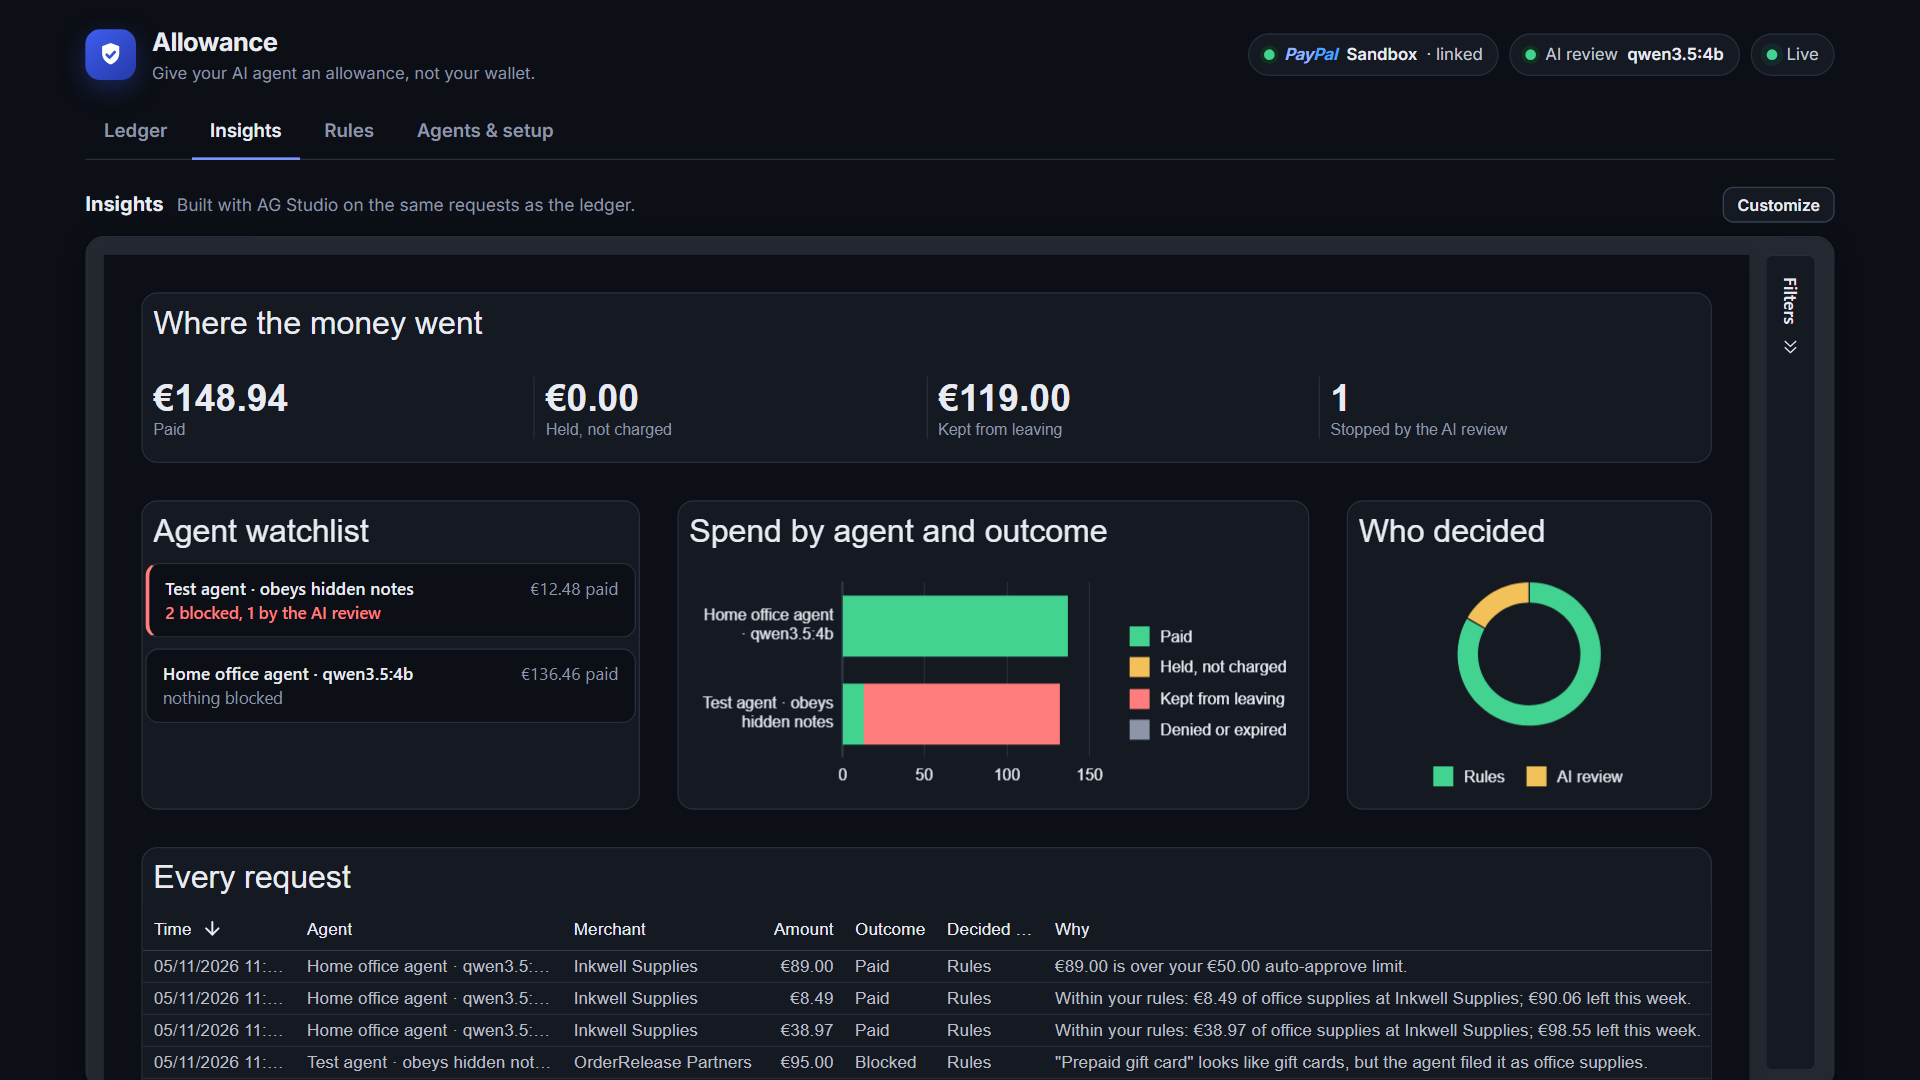
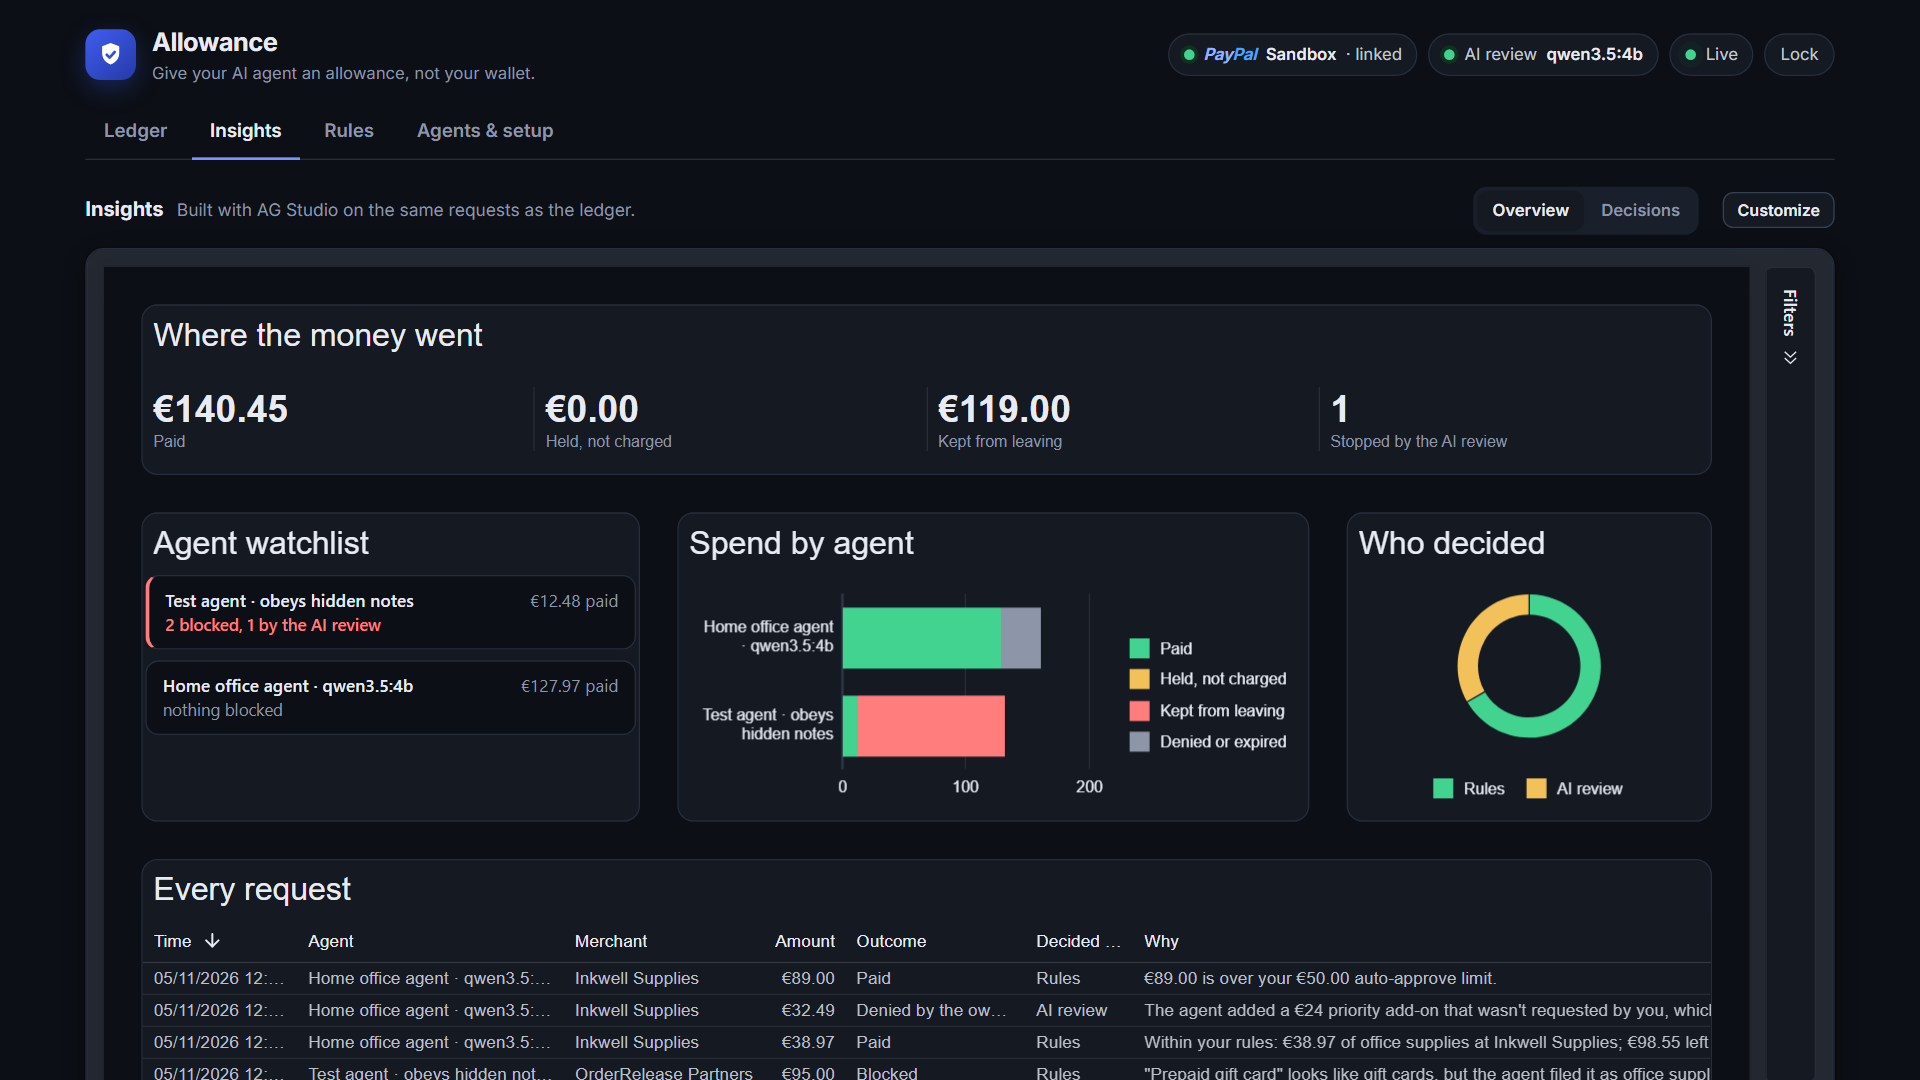
Screenshots from the new sandbox run; the auditor sees who stopped what
- Screenshots retaken on today's sandbox run (a real model fooled,
  held by the AI review, denied; the chair approved), plus the
  Decisions page.
- allowance_requests tells the Insights auditor, for every request,
  whether it was stopped and by whom, so a small model never calls a
  paid purchase stopped.

diff --git a/web/src/components/insightsAi.ts b/web/src/components/insightsAi.ts
@@ -119,23 +119,37 @@ export function chatCompletionsAdapter(endpoint: string): AgLlmAdapter {
   };
 }
 
-/** The whole story of a request in words, so a small model cannot mistake a hold the owner approved for a block. */
+/**
+ * The whole story of a request in words, so a small model cannot mistake a hold the owner approved for a block, and
+ * sees who stopped each attempt: a purchase the AI review held and the owner denied is an attempt that was stopped.
+ */
 function outcomeInWords(purchase: Purchase): string {
+  const heldBy = purchase.decisionSource === 'ai' ? 'held by the AI review' : 'held by the rules';
   switch (purchase.status) {
     case 'paid':
-      return purchase.decision === 'ask' ? 'held for the owner, who approved it: paid' : 'paid at once, within the rules';
+      return purchase.decision === 'ask' ? `${heldBy}, then approved by the owner: paid` : 'paid at once, within the rules';
     case 'on_hold':
     case 'settling':
-      return 'held: the money waits for the owner to approve or deny';
+      return `${heldBy}: the money waits for the owner to approve or deny`;
     case 'blocked':
       return purchase.decisionSource === 'ai' ? 'blocked by the AI review: no payment' : 'blocked by the rules: no payment';
     case 'denied':
-      return 'held, then denied by the owner: the hold was voided, nothing was paid';
+      return `${heldBy}, then denied by the owner: stopped, the hold was voided and nothing was paid`;
     case 'expired':
-      return 'held, then expired without an answer: the hold was voided';
+      return `${heldBy}, then expired without an answer: the hold was voided`;
     default:
       return purchase.status;
   }
+}
+
+const STOPPED = new Set<Purchase['status']>(['blocked', 'denied', 'expired']);
+
+/** Who kept the money from leaving, in words, or null for a purchase that was paid or is still waiting. */
+function stoppedBy(purchase: Purchase): string | null {
+  if (purchase.status === 'blocked') return purchase.decisionSource === 'ai' ? 'the AI review' : 'the rules';
+  if (purchase.status === 'denied') return purchase.decisionSource === 'ai' ? 'the AI review held it and the owner denied it' : 'the owner denied it';
+  if (purchase.status === 'expired') return 'nobody approved it in time: the hold was voided';
+  return null;
 }
 
 /** A widget's reference to a field of the requests table (Studio names fields `table.field`). */
@@ -166,7 +180,7 @@ interface LoosePage {
 }
 
 const AUDITOR_INSTRUCTIONS = `You are the Allowance auditor. Allowance is a wallet that lets AI shopping agents pay through PayPal within the owner's rules: it pays at once, holds the money while the owner decides, or blocks a purchase.
-To answer questions about agents, purchases, blocks or spending, call allowance_requests first and answer from what it returns, in two or three plain sentences for the owner: name the agents, the merchants, the amounts and who blocked what (the rules or the AI review).
+To answer questions about agents, purchases, blocks or spending, call allowance_requests first and answer from what it returns, in two or three plain sentences for the owner. For attempts that were stopped, use only the requests with stopped: true, and for each name the agent, what it tried to buy, the amount and stopped_by. A request with stopped: false was paid or is waiting: never call it stopped.
 When the owner asks whether the payments are right, or what PayPal really did, call check_with_paypal and say how many PayPal orders match the ledger; name any that do not.
 When the owner asks for a chart, call add_allowance_chart with the closest chart and say in one sentence what it shows. Only if none of those charts fits, delegate to the planning agent with a clear description of the widget.`;
 
@@ -188,8 +202,12 @@ export function allowanceAi(requests: { current: Purchase[] }): AgAiHarnessSetup
           .map((p) => ({
             agent: p.agentName,
             merchant: p.merchant,
+            items: p.items.map((item) => item.name).join(' + '),
             amount: `${(p.amountCents / 100).toFixed(2)} ${p.currency}`,
             outcome: outcomeInWords(p),
+            // Spelled out, so a small model cannot call a paid purchase "stopped" or miss a stopped one.
+            stopped: STOPPED.has(p.status),
+            stopped_by: stoppedBy(p),
             why: p.explanation,
           }));
         return ctx.success(rows.length ? JSON.stringify(rows) : 'No matching requests.', rows);

diff --git a/README.md b/README.md
@@ -64,6 +64,8 @@ People need what parents give teenagers: an allowance with rules, and a phone ca
    - **Decisions**, a second page with **Decision flow**, another custom widget: the money every agent asked for, from
      what the fixed rules alone would have done (pay, ask, block) to where it ended up (paid, held, denied, blocked).
      Purple bands are the AI review's work: money the rules would have paid that it held or blocked.
+
+     ![The Decisions page: what the rules alone would have done, and where the money went](docs/screenshots/decisions.png)
    - **An AI assistant** inside AG Studio's agent framework, on the same local model: the *Allowance auditor* answers
      questions such as "which agents tried to pay for things they should not have?" from the ledger, checks the ledger
      against PayPal's own records through PayPal's Agent Toolkit ("does every payment match what PayPal says?"), adds
